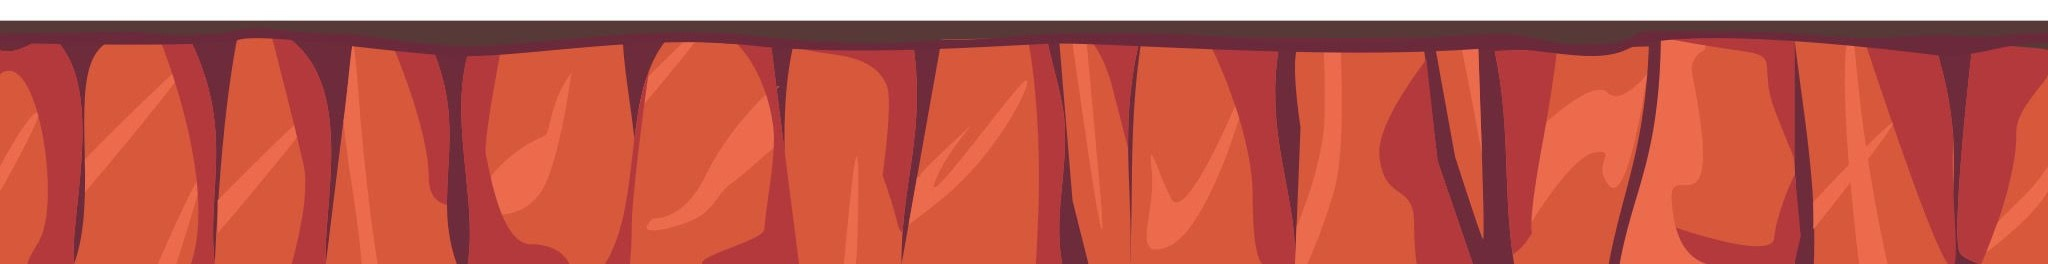
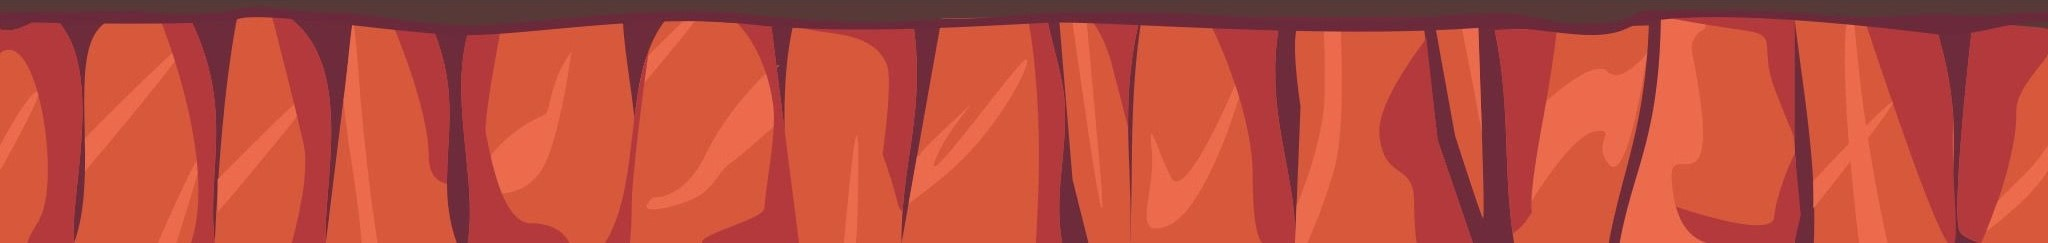
paaaty

diff --git a/InfinitRunnerPaty/MainPage.xaml b/InfinitRunnerPaty/MainPage.xaml
@@ -1,14 +1,60 @@
 <?xml version="1.0" encoding="utf-8" ?>
 <ContentPage xmlns="http://schemas.microsoft.com/dotnet/2021/maui"
              xmlns:x="http://schemas.microsoft.com/winfx/2009/xaml"
-             x:Class="InfinitRunnerPaty.MainPage">
+             x:Class="InfinitRunnerPaty.MainPage"
+             Shell.NavBarIsVisible="False">
 
-   
-  <Grid>
-    <Image Source="fundo1.png"/>
-    <Image Source="fundo2.jpg"/>
-    <Image Source="fundo3.jpg"/>
-    <Image Source="chao.jpg"/>
-    </Grid>
-
+       <Grid>
+              <HorizontalStackLayout x:Name="HSLayer1">
+                     <Image Source="fundo1.jpg"
+                            VerticalOptions="Fill"
+                            Aspect="AspectFill"/>
+                     <Image Source="fundo1.jpg"
+                            VerticalOptions="Fill"
+                            Aspect="AspectFill"/>
+                     <Image Source="fundo1.jpg"
+                            VerticalOptions="Fill"
+                            Aspect="AspectFill"/>
+              </HorizontalStackLayout>
+              <HorizontalStackLayout x:Name="HSLayer2">
+                     <Image Source="fundo2.jpg"
+                            VerticalOptions="Fill"
+                            Aspect="AspectFill"/>
+                     <Image Source="fundo2.jpg"
+                            VerticalOptions="Fill"
+                            Aspect="AspectFill"/>
+                     <Image Source="fundo2.jpg"
+                            VerticalOptions="Fill"
+                            Aspect="AspectFill"/>
+              </HorizontalStackLayout>
+              <HorizontalStackLayout x:Name="HSLayer3">
+                     <Image Source="fundo3.png"
+                            VerticalOptions="Fill"
+                            Aspect="AspectFill"/>
+                     <Image Source="fundo3.png"
+                            VerticalOptions="Fill"
+                            Aspect="AspectFill"/>
+                     <Image Source="fundo3.png"
+                            VerticalOptions="Fill"
+                            Aspect="AspectFill"/>
+              </HorizontalStackLayout>
+              <HorizontalStackLayout x:Name="HSLayerChao"
+                                      VerticalOptions="End">
+                     <Image Source="chao.jpg"
+                            HeightRequest="130"
+                            VerticalOptions="End"
+                            Aspect="AspectFill"
+                            HorizontalOptions="Fill"/>
+                     <Image Source="chao.jpg"
+                            HeightRequest="130"
+                            VerticalOptions="End"
+                            Aspect="AspectFill"
+                            HorizontalOptions="Fill"/>
+                     <Image Source="chao.jpg"
+                            HeightRequest="130"
+                            VerticalOptions="End"
+                            Aspect="AspectFill"
+                            HorizontalOptions="Fill"/>
+              </HorizontalStackLayout>
+       </Grid>
 </ContentPage>

diff --git a/InfinitRunnerPaty/MainPage.xaml.cs b/InfinitRunnerPaty/MainPage.xaml.cs
@@ -2,47 +2,90 @@
 
 public partial class MainPage : ContentPage
 {
-bool estaMorto=false;
-bool estaPulando=false;
-const int tempoEntreFrames=25;
+	bool estaMorto = false;
+	bool estaPulando = false;
+	const int tempoEntreFrames = 25;
+	int velocidade1 = 0;
+	int velocidade2 = 0;
+	int velocidade3 = 0;
+	int velocidade = 0;
+	int larguraJanela = 0;
+	int alturaJanela = 0;
 
-int velocidade1= 0;
-int velocidade2 = 0;
-int velocidade3 = 0;
-int velocidade=0;
-int larguraJanela=0;
-int alturaJanela=0;
-protected override void OnSizeAllocated(double w, double h)
-{
-	base.OnSizeAllocated(w, h);
-	CorrigeTamanhoCenario(w, h);
-	CalculaVelocidade(w);
+	public MainPage()
+	{
+		InitializeComponent();
+	}
+
+
+	protected override void OnSizeAllocated(double w, double h)
+	{
+		base.OnSizeAllocated(w, h);
+		CorrigeTamanhoCenario(w, h);
+		CalculaVelocidade(w);
+	}
+	void CalculaVelocidade(double w)
+	{
+		velocidade1 = (int)(w * 0.001);
+		velocidade2 = (int)(w * 0.004);
+		velocidade3 = (int)(w * 0.008);
+		velocidade = (int)(w * 0.001);
+
+	}
+	void CorrigeTamanhoCenario(double w, double h)
+	{
+		foreach (var a in HSLayer1.Children)
+			(a as Image).WidthRequest = w;
+		foreach (var a in HSLayer2.Children)
+			(a as Image).WidthRequest = w;
+		foreach (var a in HSLayer3.Children)
+			(a as Image).WidthRequest = w;
+		foreach (var a in HSLayerChao.Children)
+			(a as Image).WidthRequest = w;
+
+		HSLayer1.WidthRequest = w;
+		HSLayer2.WidthRequest = w;
+		HSLayer3.WidthRequest = w;
+		HSLayerChao.WidthRequest = w;
+	}
+	void GerenciaCenarios()
+	{
+		MoveCenario();
+		GerenciaCenarios(HSLayer1);
+		GerenciaCenarios(HSLayer2);
+		GerenciaCenarios(HSLayer3);
+		GerenciaCenarios(HSLayerChao);
+	}
+
+	void MoveCenario()
+	{
+		HSLayer1.TranslationX -= velocidade1;
+		HSLayer2.TranslationX -= velocidade2;
+		HSLayer3.TranslationX -= velocidade3;
+		HSLayerChao.TranslationX -= velocidade;
+	}
+
+	void GerenciaCenarios(HorizontalStackLayout HSL)
+	{
+		var view = (HSL.Children.First() as Image);
+		if (view.WidthRequest + HSL.TranslationX < 0)
+		{
+			HSL.Children.Remove(view);
+			HSL.Children.Add(view);
+			HSL.TranslationX = view.TranslationX;
+		}
+	}
+	async Task Desenha()
+	{
+		while (!estaMorto)
+		{
+			GerenciaCenarios();
+			await Task.Delay(tempoEntreFrames);
+		}
+	}
+	protected override void OnAppearing()
+	{
+		base.OnAppearing();
+		Desenha();
+	}
 }
-void CalculaVelocidade CalculaVelocidade(double w)
-{
-	velocidade1 = (int)(w* 0.001);
-	velocidade2 = (int)(w* 0.004);
-	velocidade3 = (int)(w* 0.008);
-	velocidade=   (int)(w*0.001);
-
-}
-void CorrigeTamanhoCenario (double w, double h)
-{
-	foreach (var a in HSLayer1.Children)
-	(a as Image).WidthRequest = w;
-	foreach (var a in HSLayer2.Children)
-	(a as Image).WidthRequest = w;
-	foreach (var a in HSLayer3.Children)
-	(a as Image).WidthRequest = w;
-	foreach(var a in HSLayerChao.Children)
-	(a as Image.).WidthRequest = w;
-
-	HSLayer1.WidthRequest = w
-	HSLayer2.WidthRequest = w*
-	HSLayer3.WidthRequest = w*
-	HSLayerChao.WidthRequest =w*
-}
-
-
-}
-
